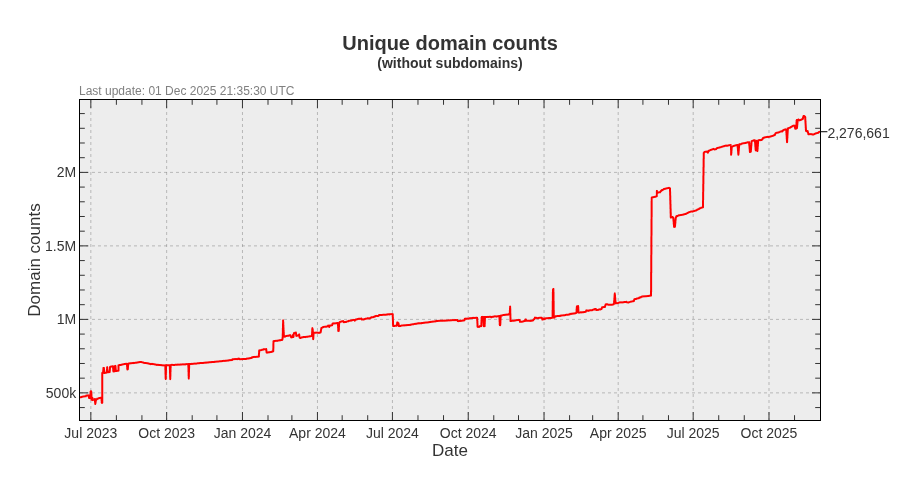
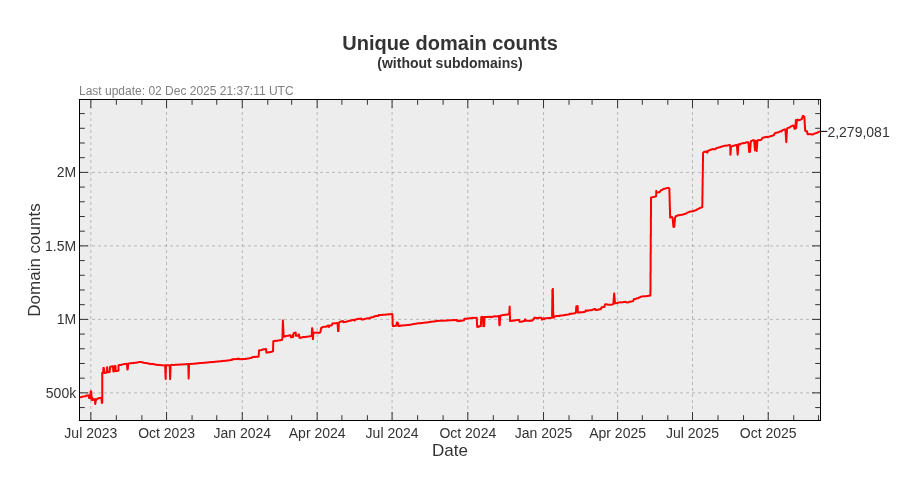
Update pages

diff --git a/README.md b/README.md
@@ -3,22 +3,22 @@ A blocklist file for blocking ads, trackers and malware domains.
 
[1 lines of base64/hex data omitted]
 
-- Unique domains: 2,975,384
-- Without subdomains: 2,276,661
-- Last update: 01 Dec 2025 21:35:30 UTC
-- Version: 2025.12.01.01
+- Unique domains: 2,977,894
+- Without subdomains: 2,279,081
+- Last update: 02 Dec 2025 21:37:11 UTC
+- Version: 2025.12.02.01
 
 
 ### Downloads:
 
 | Format             | Domain count      | Download Link |
 |:------------------ | -----------------:|:-------------:|
-| *Adblock Plus*     | 2,276,661 | [Download](https://dl.cenk.app/bad-hosts/bad-hosts-abp) |
-| *Wildcard domains* | 2,276,661 | [Download](https://dl.cenk.app/bad-hosts/bad-hosts-wildcard) |
-| *dnsmasq*          | 2,276,661 | [Download](https://dl.cenk.app/bad-hosts/bad-hosts-dnsmasq) |
-| *hosts*            | 2,975,384 | [Download](https://dl.cenk.app/bad-hosts/hosts) |
-| *hosts (ipv6)*     | 2,975,384 | [Download](https://dl.cenk.app/bad-hosts/hosts-ipv6) |
-| *Plain domains*    | 2,975,384 | [Download](https://dl.cenk.app/bad-hosts/bad-hosts-domains) |
+| *Adblock Plus*     | 2,279,081 | [Download](https://dl.cenk.app/bad-hosts/bad-hosts-abp) |
+| *Wildcard domains* | 2,279,081 | [Download](https://dl.cenk.app/bad-hosts/bad-hosts-wildcard) |
+| *dnsmasq*          | 2,279,081 | [Download](https://dl.cenk.app/bad-hosts/bad-hosts-dnsmasq) |
+| *hosts*            | 2,977,894 | [Download](https://dl.cenk.app/bad-hosts/hosts) |
+| *hosts (ipv6)*     | 2,977,894 | [Download](https://dl.cenk.app/bad-hosts/hosts-ipv6) |
+| *Plain domains*    | 2,977,894 | [Download](https://dl.cenk.app/bad-hosts/bad-hosts-domains) |
 
 ### Domain count history
 #### With subdomains
